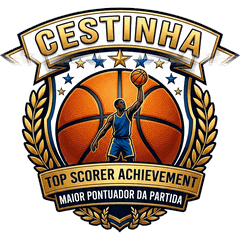
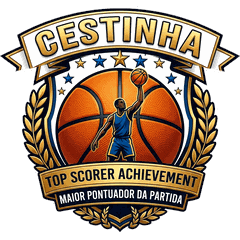
Selo do Cestinha: só a faixa ampliada (borda inteira, estrelas sem duplicar)
Claude-Session: https://claude.ai/code/session_01Ufw5em1U7zhES5ZZ6BceRT

Changed region(s): [[0.0, 0.0292, 1.0, 0.9625]]

diff --git a/sw.js b/sw.js
@@ -3,7 +3,7 @@
  * v2 (20/11/2026): pede sempre a versão nova ao site e a página se recarrega sozinha quando sai atualização.
  * Sem internet, abre a última cópia guardada das páginas e imagens do próprio site.
  * Nunca guarda os dados do jogo (servidor Google): os números sempre vêm ao vivo. */
-const CACHE = 'klaustv-app-v7';
+const CACHE = 'klaustv-app-v8';
 const BASICO = ['aovivo.html', 'manifest.webmanifest', 'logo_klaustv_tv.png', 'bola_fiba.png', 'app/icone-192.png', 'app/apple-touch-icon.png'];
 
 self.addEventListener('install', e => {
